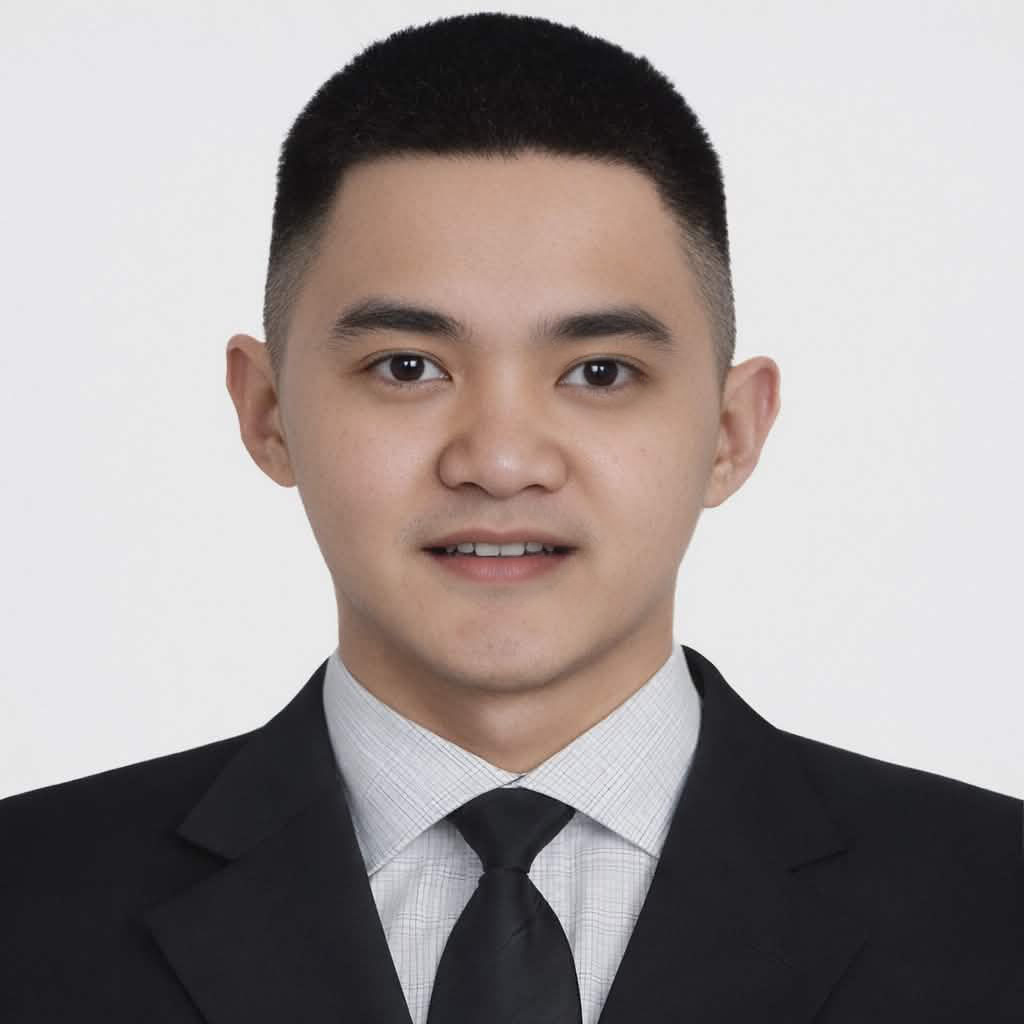
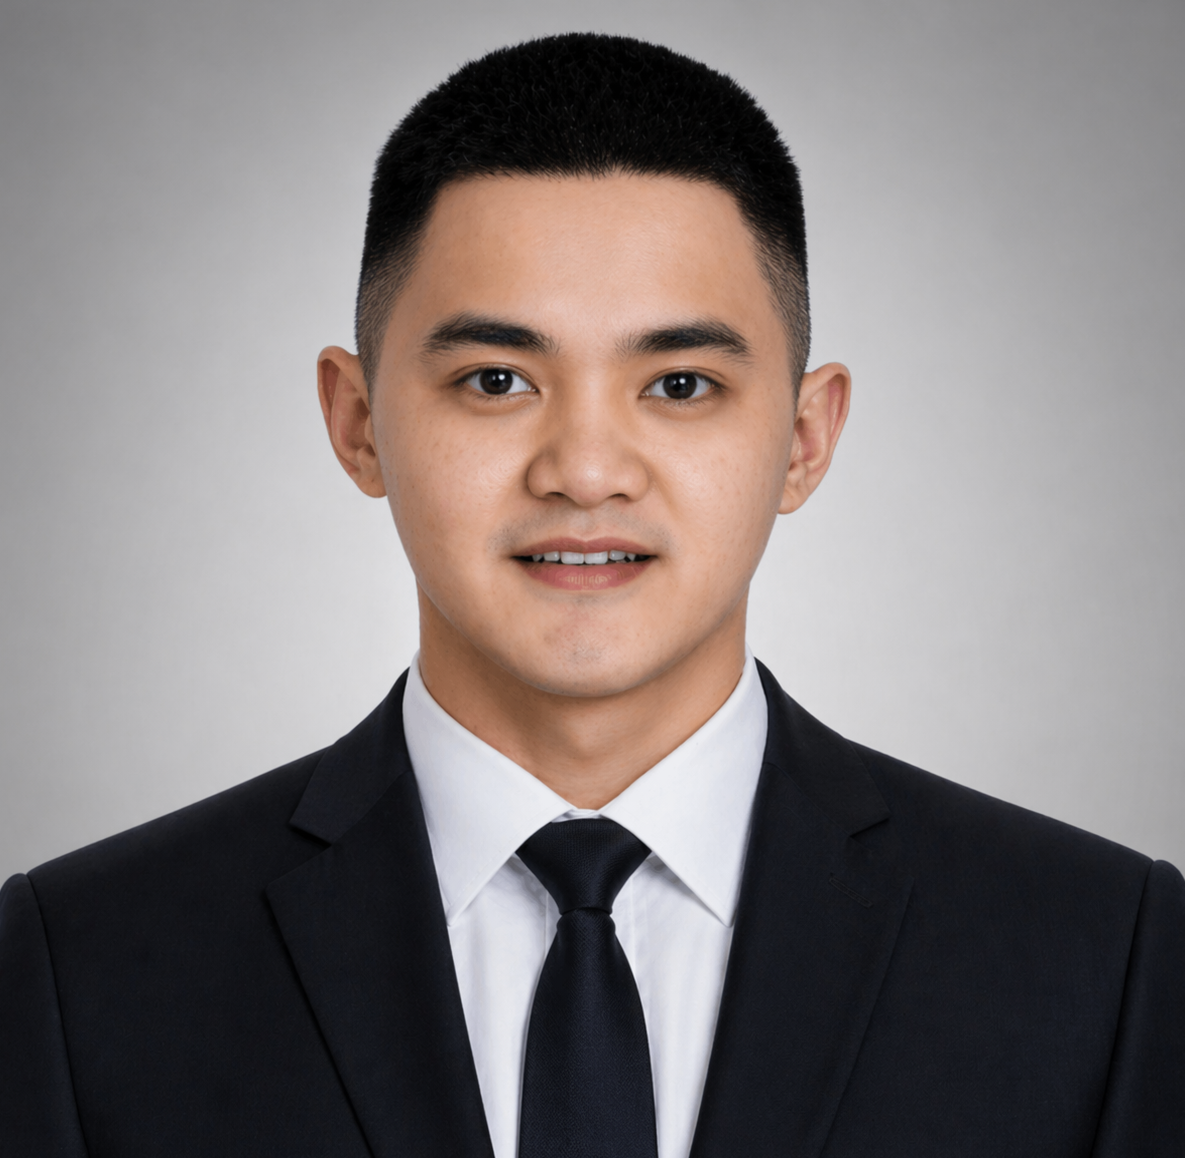
Profile Update

diff --git a/src/components/home/HeroSection.tsx b/src/components/home/HeroSection.tsx
@@ -189,7 +189,7 @@ export default function HeroSection() {
 
             <div className="relative w-80 h-80 sm:w-96 sm:h-96 md:w-[480px] md:h-[520px] rounded-2xl overflow-hidden border-0">
               <Image
-                src="/images/Profile.png"
+                src="/images/myProfile.jpg"
                 alt="Justine Psalm Acosta"
                 fill
                 sizes="(max-width: 640px) 320px, (max-width: 768px) 384px, 480px"
